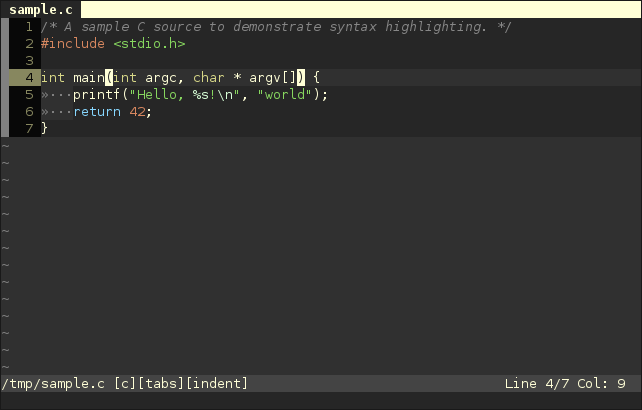
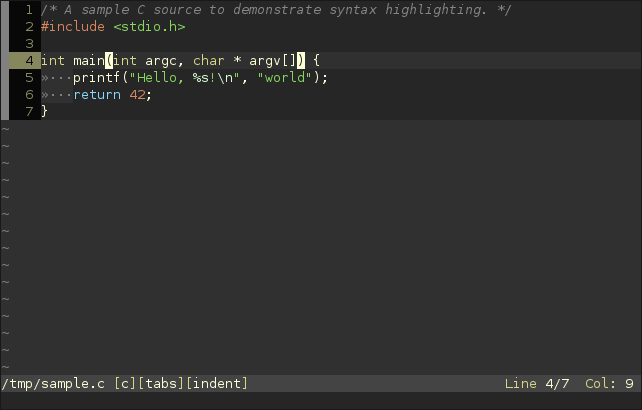
Update screenshots

diff --git a/README.md b/README.md
@@ -99,7 +99,7 @@ A 256-color theme based on the theme of the same name for Vim.
 
 A 24-bit color theme based on the popular color palette.
 
-![solarized-dark](docs/theme_solarized-dark.png)
+![solarized-dark](docs/theme_solarized_dark.png)
 
 ### City Lights
 
